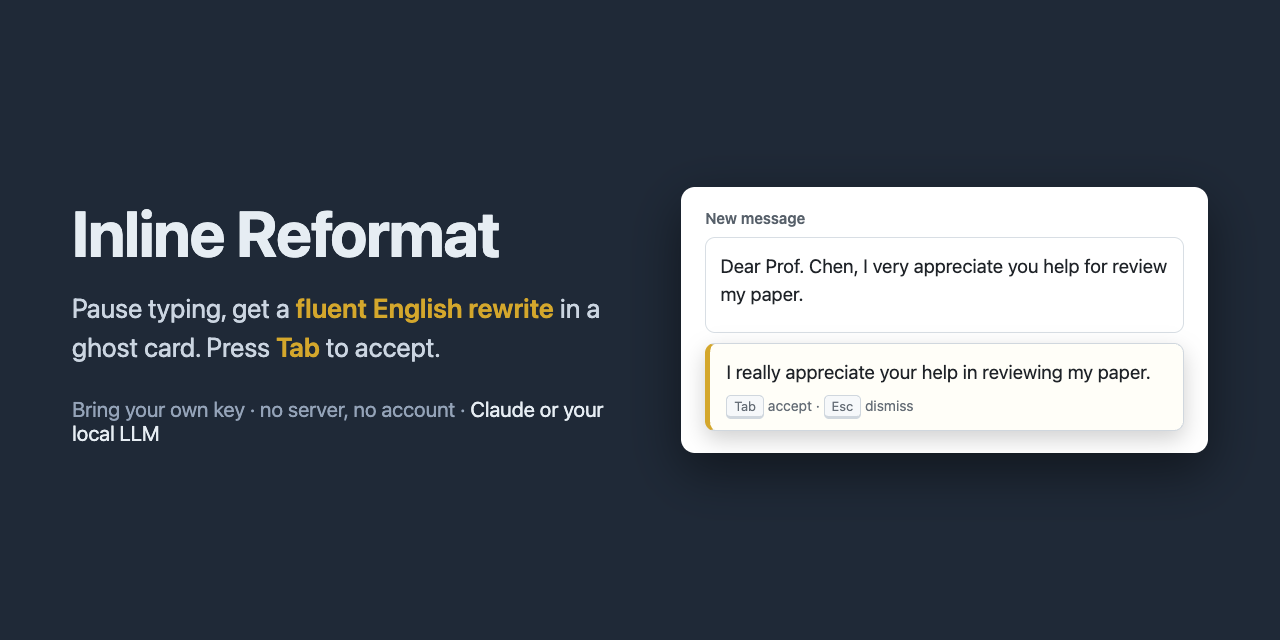
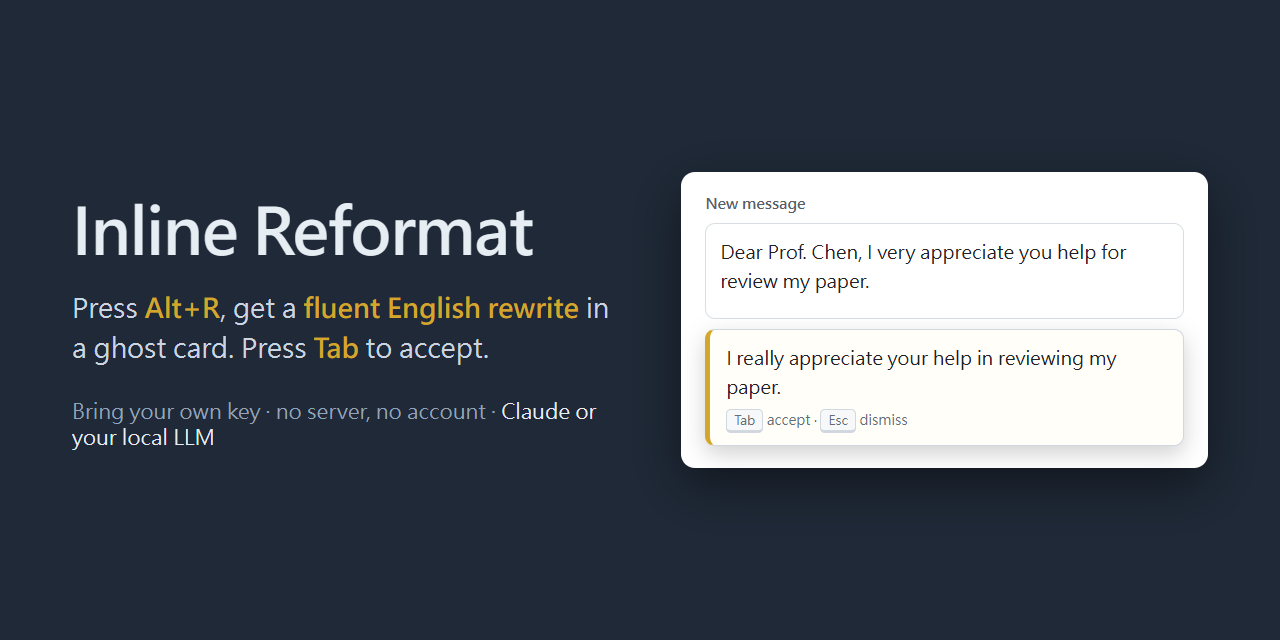
docs: align promo copy and media with the manual-only Alt+R default
Launch posts, social preview, and the demo GIF all described the old
auto-trigger-on-pause behavior. The GIF now records the Alt+R flow with
on-screen key hints; demo-gif.mjs picks the largest recording (the
persistent context also records its blank initial page) and falls back
to winget-installed ffmpeg when none is on PATH.

diff --git a/docs/promo/launch-posts.md b/docs/promo/launch-posts.md
@@ -14,7 +14,7 @@ Web Store 過審拿到連結後再打 Show HN 和 Reddit，一次把流量導到
 **Title（≤80 字元）**
 
 ```
-Show HN: A BYOK Chrome extension that rewrites my English as I type
+Show HN: A BYOK Chrome extension that rewrites my English where I type
 ```
 
 **內文**
@@ -25,10 +25,12 @@ day ends in it anyway: papers, peer reviews, emails to editors. My loop used to 
 copy the sentence into a chatbot, ask for a rewrite, paste it back. Dozens of times
 a day.
 
-So I built a Chrome extension that removes the loop. When I pause typing for 1.5
-seconds, the paragraph under my caret is sent to an LLM and the rewrite streams
-into a small card under the input box. Tab accepts it in place, Esc dismisses it,
-and typing again makes it go away. No selection, no context menu.
+So I built a Chrome extension that removes the loop. I press Alt+R, the paragraph
+under my caret is sent to an LLM, and the rewrite streams into a small card under
+the input box. Tab accepts it in place, Esc dismisses it, and typing again makes
+it go away. No selection, no context menu. (There's an opt-in mode that triggers
+automatically after a typing pause; the default is manual — one keystroke, one
+API call, nothing sent while you just type.)
 
 Two design decisions I'd defend:
 
@@ -54,7 +56,7 @@ Repo: https://github.com/odafeng/inline-reformat
 **Title**
 
 ```
-I built a Chrome extension that rewrites my English as I type, and it runs entirely against my local Ollama
+I built a Chrome extension that rewrites my English in place, and it runs entirely against my local Ollama
 ```
 
 **內文**
@@ -62,8 +64,8 @@ I built a Chrome extension that rewrites my English as I type, and it runs entir
 ```
 Non-native English speaker here. I write papers and emails in English all day and
 got tired of the copy-to-chatbot-paste-back loop, so I made a browser extension:
-pause typing for 1.5 s, the current paragraph gets rewritten, the result streams
-into a card under the input box, Tab accepts it in place.
+hit Alt+R, the paragraph you're typing gets rewritten, the result streams into a
+card under the input box, Tab accepts it in place.
 
 The part this sub might care about: it talks to any OpenAI-compatible endpoint.
 Point the base URL at Ollama/vLLM/LM Studio and everything stays on your machine.
@@ -84,7 +86,7 @@ MIT licensed: https://github.com/odafeng/inline-reformat
 The copy-into-ChatGPT-paste-back loop was eating my life, so I built a Chrome
 extension that removes it.
 
-Pause typing → rewrite streams into a card → Tab to accept. [附 demo.gif]
+Alt+R → rewrite streams into a card → Tab to accept. [附 demo.gif]
 
 2/ Design choice I care about: it never auto-replaces. An LLM rewrite can flip a
 negation, and a non-native speaker is exactly who won't catch it. Every change
@@ -102,9 +104,10 @@ https://github.com/odafeng/inline-reformat
 身為每天要用英文寫論文、回 reviewer、跟編輯通信的外科醫師，我以前的日常是：
 把句子複製到 ChatGPT、請它改通順、再貼回去。一天幾十次。
 
-所以我寫了一個 Chrome 擴充功能：打字停頓 1.5 秒，游標所在的段落自動改寫，
+所以我寫了一個 Chrome 擴充功能：按 Alt+R，游標所在的段落交給 LLM 改寫，
 結果串流顯示在輸入框下方的小卡片，按 Tab 原地取代，Esc 關掉，繼續打字它就消失。
-不用反白、不用右鍵。
+不用反白、不用右鍵。（也有打字停頓就自動建議的模式，預設關閉——按一次、算一次，
+不按就不花錢。）
 
 幾個堅持：
 ・不自動取代。LLM 偶爾會改到語意，母語不是英文的人恰好最難發現，所以每個
